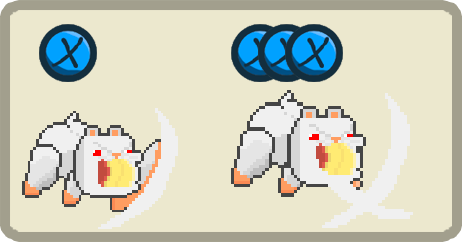
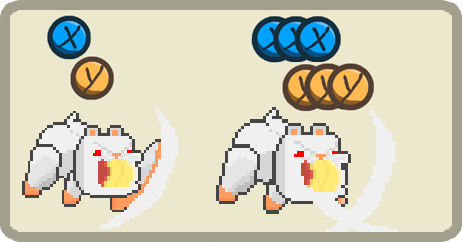
Veneno con color morado e imagenes de tutorial añadidas

Changed region(s): [[0.4536, 0.0579, 0.9071, 0.9835], [0.0605, 0.0579, 0.2721, 0.4339]]

diff --git a/Project Stroke/Proyecto/components/MapMngr.cpp b/Project Stroke/Proyecto/components/MapMngr.cpp
@@ -491,7 +491,7 @@ void MapMngr::loadEnemyRoom() {
 			enemy->addComponent<EnemyStateMachine>();
 			enemy->setGroup<Enemy>(true);
 
-			enemy->addComponent<EntityAttribs>(200 + ((hamstersToLoad_.size() - 1) * 100), 0.0, prop[3].getStringValue(), Vector2D(3.6, 2), 0, 0, 5, 70);
+			enemy->addComponent<EntityAttribs>(300 + ((hamstersToLoad_.size() - 1) * 100), 0.0, prop[3].getStringValue(), Vector2D(3.6, 2), 0, 0, 5, true, false, true);
 
 			enemy->addComponent<Animator>(
 				&sdlutils().images().at(prop[3].getStringValue() + "Sheet"),
@@ -531,7 +531,7 @@ void MapMngr::loadEnemyRoom() {
 			enemy->addComponent<EnemyStateMachine>();
 			enemy->setGroup<Enemy>(true);
 
-			enemy->addComponent<EntityAttribs>(600 + (hamstersToLoad_.size() * 100), 0.0, "calcetin", Vector2D(4.5, 2), 0, 0, 20, true, true);
+			enemy->addComponent<EntityAttribs>(600 + (hamstersToLoad_.size() * 100), 0.0, "calcetin", Vector2D(4.5, 2), 0, 0, 20, true, true, false);
 
 			//enemy->addComponent<Image>(&sdlutils().images().at("firstBoss"));
 			enemy->addComponent<Animator>(
@@ -567,7 +567,7 @@ void MapMngr::loadEnemyRoom() {
 			//enemy->addComponent<EnemyStateMachine>();
 			//enemy->setGroup<Enemy>(true);
 
-			//enemy->addComponent<EntityAttribs>(600 + (hamstersToLoad_.size() * 100), 0.0, "enemy", Vector2D(4.5, 2), 0, 0, 20, true, true);
+			//enemy->addComponent<EntityAttribs>(600 + (hamstersToLoad_.size() * 100), 0.0, "enemy", Vector2D(4.5, 2), 0, 0, 20, true, true, false);
 
 			//enemy->addComponent<Image>(&sdlutils().images().at("firstBoss"));
 			//enemy->addComponent<UI>("canelon", 4);
@@ -807,7 +807,7 @@ void MapMngr::addTrap(const tmx::Object& object, int x, int y) {
 	trap->addComponent<TimeTrap>(&sdlutils().images().at("catSmoking"));
 
 	//int life, float range, std::string id, Vector2D speed, int number, float poisonProb, int dmg, bool igMargin, bool invincibilty
-	trap->addComponent<EntityAttribs>(1, 10.0f, "trap1", Vector2D(), 1, 0.0f, 1, true, false);
+	trap->addComponent<EntityAttribs>(1, 10.0f, "trap1", Vector2D(), 1, 0.0f, 1, true, false, false);
 	//trap->addComponent<Image>(&sdlutils().images().at("catSmoking"));
 
 	/*

diff --git a/Project Stroke/Proyecto/components/MicroOndasManager.cpp b/Project Stroke/Proyecto/components/MicroOndasManager.cpp
@@ -54,7 +54,7 @@ void MicroOndasManager::init() {
 	right_->setGroup<Enemy>(true);
 	
 	right_->addComponent<EnemyStateMachine>();
-	rightAttribs_ = right_->addComponent<EntityAttribs>(100 + (hamsNum_ * 50), 0.0, "soldier1", Vector2D(4.5, 2), 0, 0, 20, true, false);
+	rightAttribs_ = right_->addComponent<EntityAttribs>(100 + (hamsNum_ * 50), 0.0, "soldier1", Vector2D(4.5, 2), 0, 0, 20, true, false, false);
 	
 	right_->addComponent<EnemyAttack>();
 	right_->addComponent<MovementSimple>();
@@ -74,7 +74,7 @@ void MicroOndasManager::init() {
 	
 
 	left_->addComponent<EnemyStateMachine>();
-	leftAttribs_ = left_->addComponent<EntityAttribs>(100 + (hamsNum_ * 50), 0.0, "soldier1", Vector2D(4.5, 2), 0, 0, 20, true, false);
+	leftAttribs_ = left_->addComponent<EntityAttribs>(100 + (hamsNum_ * 50), 0.0, "soldier1", Vector2D(4.5, 2), 0, 0, 20, true, false, false);
 	
 	left_->addComponent<EnemyAttack>();
 	left_->addComponent<MovementSimple>();
@@ -96,7 +96,7 @@ void MicroOndasManager::init() {
 	
 
 	bateria_->addComponent<EnemyStateMachine>();
-	bateriaAttribs_ = bateria_->addComponent<EntityAttribs>(100 + (hamsNum_ * 50), 0.0, "soldier1", Vector2D(4.5, 2), 0, 0, 20, true, true);
+	bateriaAttribs_ = bateria_->addComponent<EntityAttribs>(100 + (hamsNum_ * 50), 0.0, "soldier1", Vector2D(4.5, 2), 0, 0, 20, true, true, false);
 	
 	bateria_->addComponent<EnemyAttack>();
 	bateria_->addComponent<MovementSimple>();

diff --git a/Project Stroke/Proyecto/components/EntityAttribs.cpp b/Project Stroke/Proyecto/components/EntityAttribs.cpp
@@ -85,7 +85,7 @@ EntityAttribs::EntityAttribs(int life, float range, std::string id, Vector2D spe
 	state_(nullptr)
 {}
 
-EntityAttribs::EntityAttribs(int life, float range, std::string id, Vector2D speed, int number, float poisonProb, int dmg, bool igMargin, bool invincibilty) :
+EntityAttribs::EntityAttribs(int life, float range, std::string id, Vector2D speed, int number, float poisonProb, int dmg, bool igMargin, bool invincibilty, bool canBPois) :
 	playerNumber_(number),
 	id_(id),
 	health_(life),
@@ -104,7 +104,7 @@ EntityAttribs::EntityAttribs(int life, float range, std::string id, Vector2D spe
 	critDamage_(1.5),
 
 	poisonDamage_(2),
-	canBePoisoned_(false),
+	canBePoisoned_(canBPois),
 	poisonProbability_(poisonProb),
 	canPoison_(poisonProbability_ > 0),
 	poisoned_(false),
@@ -120,7 +120,8 @@ EntityAttribs::EntityAttribs(int life, float range, std::string id, Vector2D spe
 	hms_(nullptr),
 	hmsText_(nullptr),
 	enmState_(nullptr),
-	tr_(nullptr)
+	tr_(nullptr),
+	state_(nullptr)
 {}
 
 EntityAttribs::~EntityAttribs() {

diff --git a/Project Stroke/Proyecto/components/FinalBossManager.cpp b/Project Stroke/Proyecto/components/FinalBossManager.cpp
@@ -28,7 +28,7 @@ void FinalBossManager::init() {
 	hand_->addComponent<EnemyStateMachine>();
 	hand_->setGroup<Enemy>(true);
 
-	handAttribs_ = hand_->addComponent<EntityAttribs>(800 + (hamsNum_ * 100), 0.0, "enemy", Vector2D(4.5, 2), 0, 0, 20, true, true);
+	handAttribs_ = hand_->addComponent<EntityAttribs>(800 + (hamsNum_ * 100), 0.0, "enemy", Vector2D(4.5, 2), 0, 0, 20, true, true, false);
 	hand_->addComponent<UI>("canelon", 4);
 
 	hand_->addComponent<Image>(&sdlutils().images().at("firstBoss"));
@@ -48,7 +48,7 @@ void FinalBossManager::init() {
 	fist_->addComponent<EnemyStateMachine>();
 	fist_->setGroup<Enemy>(true);
 
-	fistAttribs_ = fist_->addComponent<EntityAttribs>(800 + (hamsNum_ * 100), 0.0, "enemy", Vector2D(4.5, 2), 0, 0, 20, true, true);
+	fistAttribs_ = fist_->addComponent<EntityAttribs>(800 + (hamsNum_ * 100), 0.0, "enemy", Vector2D(4.5, 2), 0, 0, 20, true, true, false);
 
 	fist_->addComponent<Image>(&sdlutils().images().at("firstBoss"));
 

diff --git a/Project Stroke/Proyecto/components/Animator.cpp b/Project Stroke/Proyecto/components/Animator.cpp
@@ -30,6 +30,14 @@ void Animator::render() {
 		Vector2D renderPos = Vector2D(tr_->getPos().getX() - cam.x, tr_->getPos().getY() - tr_->getZ() - cam.y);
 		SDL_Rect dest = build_sdlrect(renderPos, tr_->getW(), tr_->getH());
 
+
+		EntityAttribs* attribs = entity_->getComponent<EntityAttribs>();
+		//Color verdoso cuando esta envenenado
+		if (attribs != nullptr && attribs->getPoisoned())
+			SDL_SetTextureColorMod(tex_->getSDLText(), 179, 0, 255);
+		else
+			SDL_SetTextureColorMod(tex_->getSDLText(), 255, 255, 255);
+
 		if (debug) {
 			SDL_SetRenderDrawColor(sdlutils().renderer(), 0, 255, 0, 255);
 

diff --git a/Project Stroke/Proyecto/components/EntityAttribs.h b/Project Stroke/Proyecto/components/EntityAttribs.h
@@ -14,7 +14,7 @@ class EntityAttribs: public Component {
 public:
 	EntityAttribs();
 	EntityAttribs(int life, float range, std::string id, Vector2D speed, int number, float poisonProb, int dmg, int marg);
-	EntityAttribs(int life, float range, std::string id, Vector2D speed, int number, float poisonProb, int dmg, bool igMargin, bool invincibilty);
+	EntityAttribs(int life, float range, std::string id, Vector2D speed, int number, float poisonProb, int dmg, bool igMargin, bool invincibilty, bool canBPois);
 
 	virtual ~EntityAttribs();
 

diff --git a/Project Stroke/Proyecto/components/Stroke.cpp b/Project Stroke/Proyecto/components/Stroke.cpp
@@ -93,7 +93,7 @@ void Stroke::checkChance() {
 	if (t >= timeLastUpdate_ + UPDATETIME) {
 		if (hms_->getState() != HamStates::INFARCTED && ss_->checkChance(chance_, chanceFromAb_)) {
 			//TODO madremia que no lo podemos desactivar porque hay que quitarlo de la lsita de player y noseque algo habra que ahcer para que la camara no explote
-			infarctHamster();
+			//infarctHamster();
 		}
 		timeLastUpdate_ = t;
 	}

diff --git a/Project Stroke/Proyecto/components/EnemyStrongAttack.cpp b/Project Stroke/Proyecto/components/EnemyStrongAttack.cpp
@@ -124,7 +124,7 @@ bool EnemyStrongAttack::CheckCollisions(const SDL_Rect& enemyRect, bool finCombo
 			//}
 			canHit = true;
 			//Le restamos la vida al aliado
-			eAttribs->recieveDmg(dmg / 6);
+			eAttribs->recieveDmg(dmg / 2);
 
 			auto& hamStateM = ents[i]->getComponent<HamsterStateMachine>()->getState();
 
